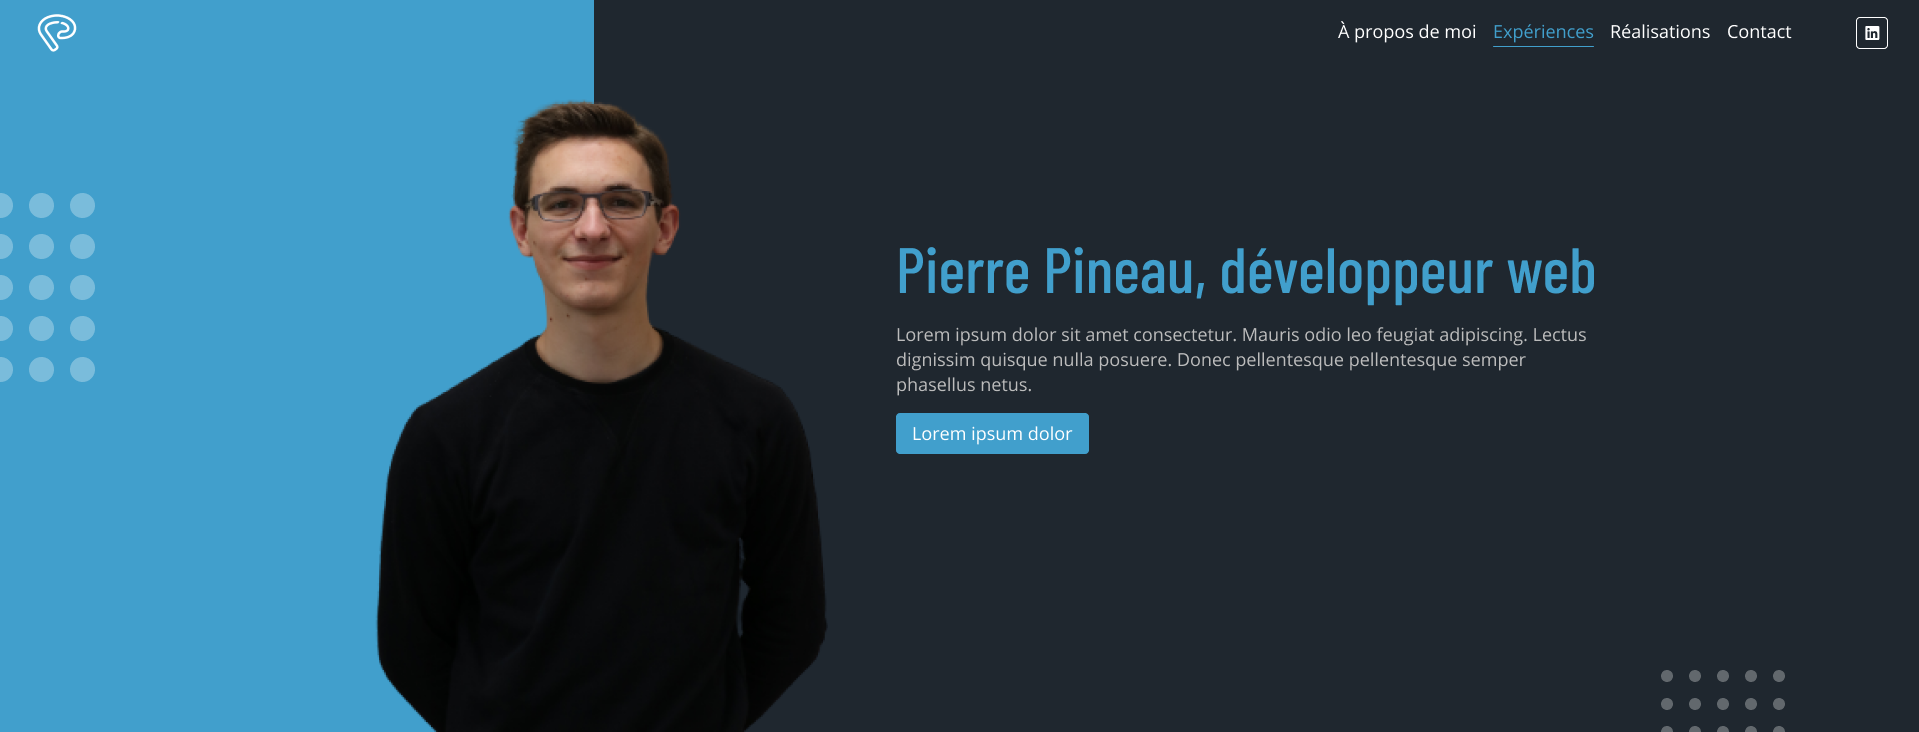
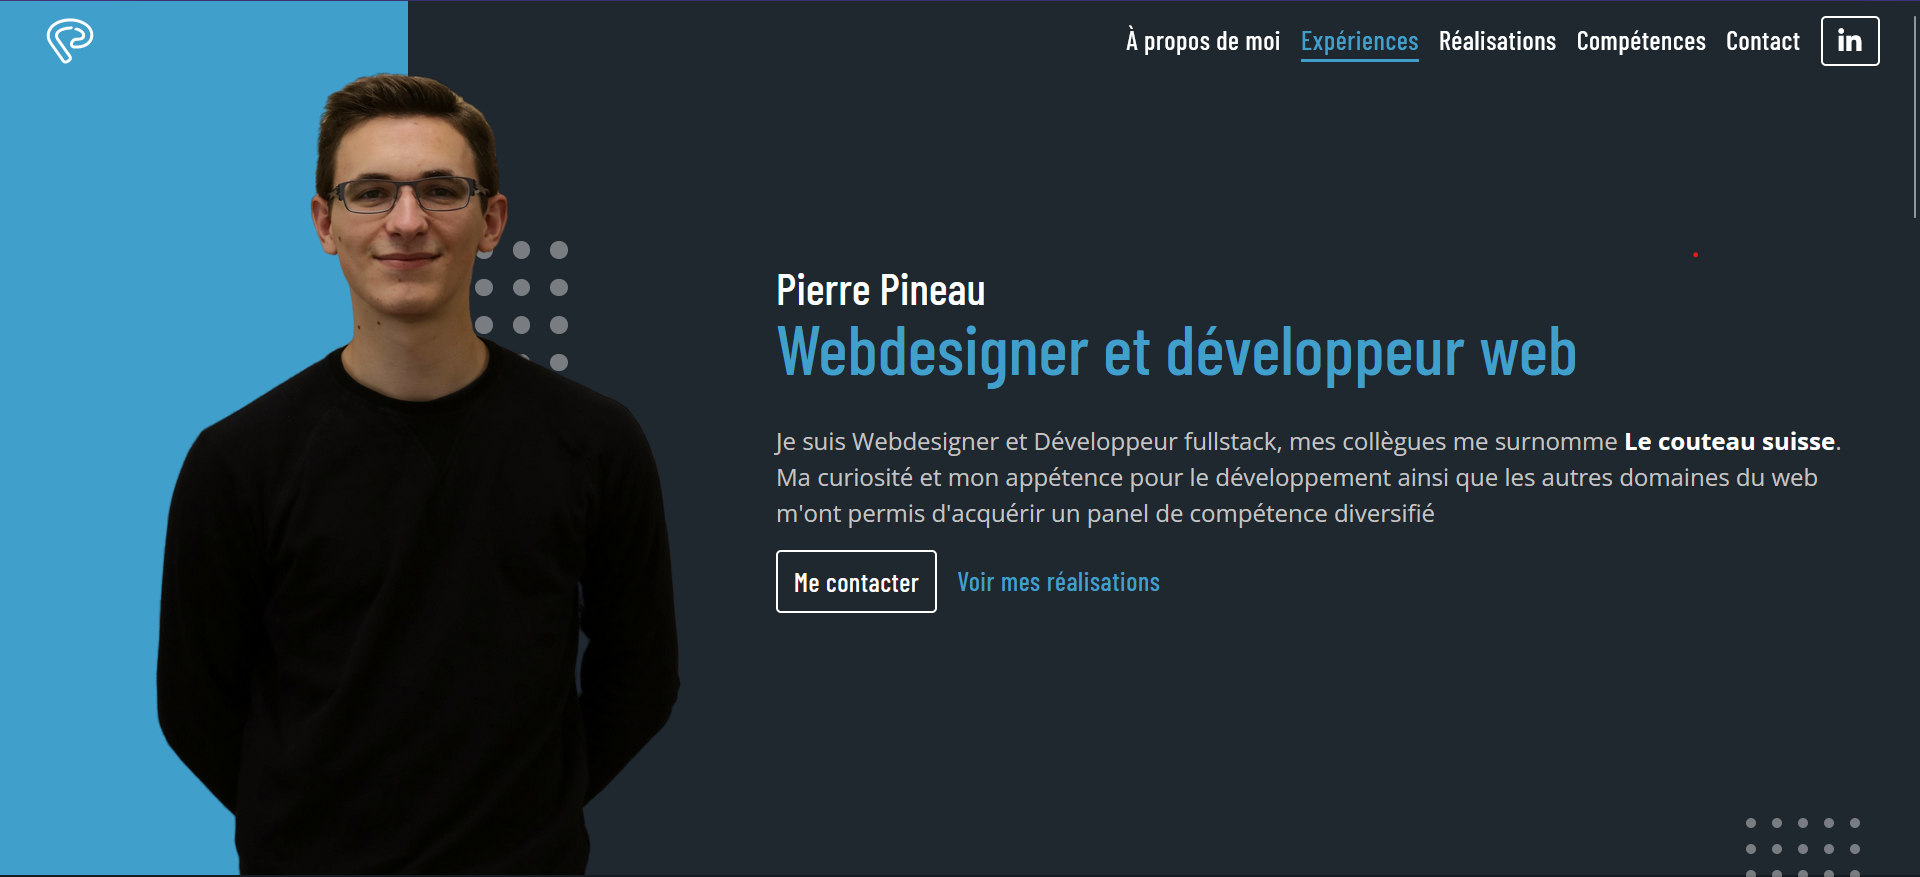
Update Image + Info

diff --git a/README.md b/README.md
@@ -6,15 +6,22 @@
 # Bonjour, je m'appelle Pierre Pineau ! 👋
 
 
-## 🚀 À propos de moi
-Je suis développeur fullstack
+## À propos de moi
+Je suis Webdesigner et Développeur fullstack, mes collègues me surnomme Le couteau suisse. Ma curiosité et mon appétence pour le développement ainsi que les autres domaines du web m'ont permis d'acquérir un panel de compétence diversifié
 
 
 ## 🛠 Skills
-Javascript, HTML, CSS...
+- Symfony
+- Laravel
+- VueJS
+- TailwindCSS
+- Javascript
+- TWIG
 
 
 ## Mon portfolio
+
+Pour en savoir plus sur moi, je vous invite à visiter mon portfolio
 
 <a href="https://pineaupierre.fr/" target="_blank" rel="nofollow">
   <img src="./images/portfolio.png" alt="Mon portfolio" width="100%"> 
@@ -39,22 +46,12 @@ Ou alors lancer la commande suivante
 ``` -->
 
 
-## Spécialités
-👩💻 I'm currently working on...
+## Mes spécialités
 
-🧠 I'm currently learning...
-
-👯♀ I'm looking to collaborate on...
-
-🤔 I'm looking for help with...
-
-💬 Ask me about...
-
-📫 How to reach me...
-
-😄 Pronouns...
-
-⚡ Fun fact...
+- Web developpement
+- Web design
+- Référencement
+- Motion design
 
 
 
